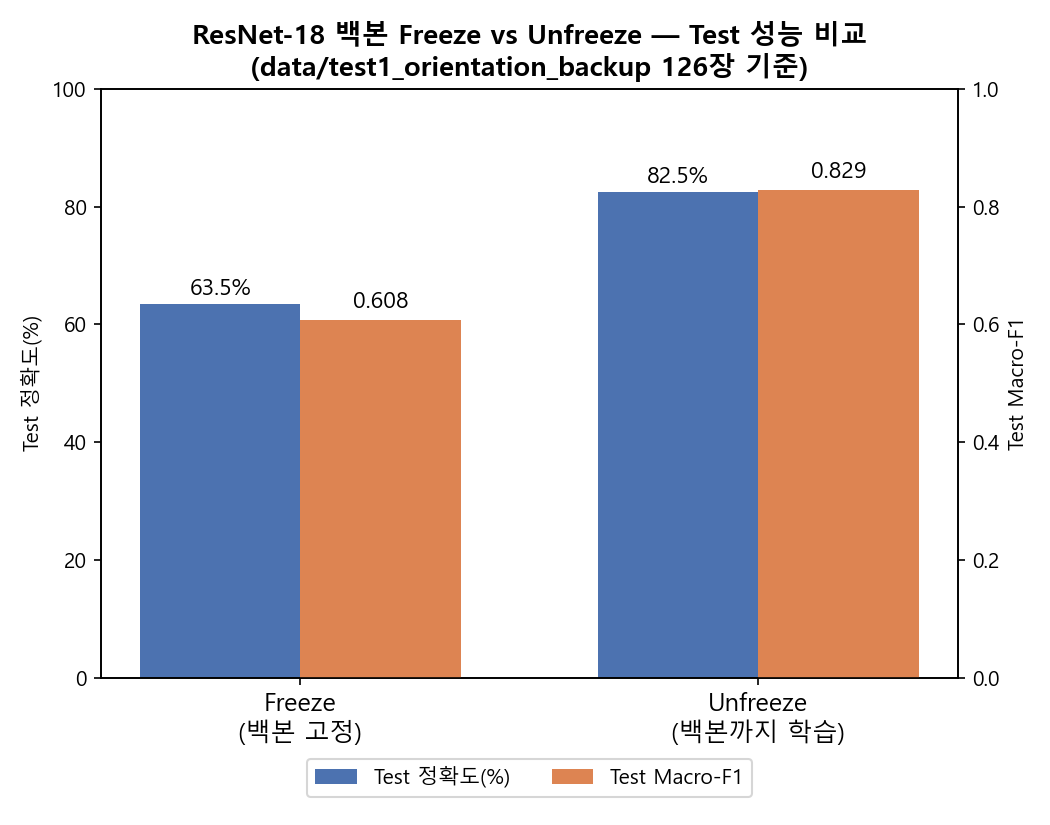
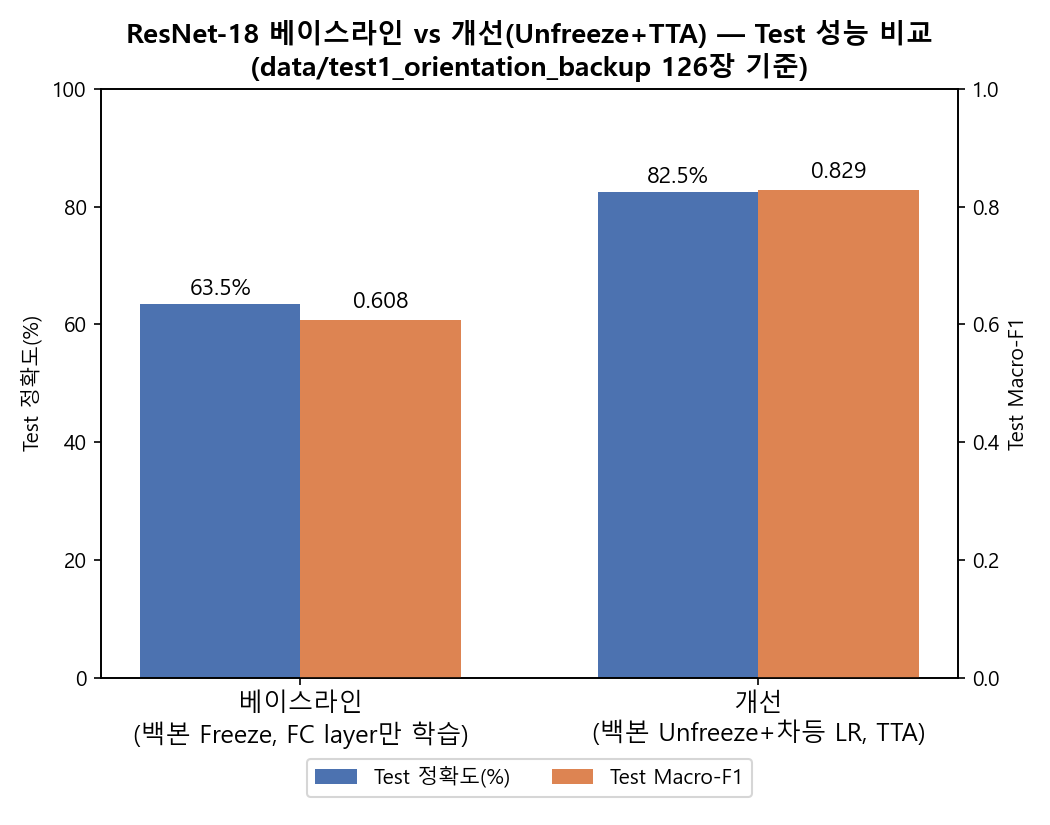
docs: ResNet-18 freeze vs unfreeze 그래프를 베이스라인/개선(TTA 포함) 라벨로 명확화
수치는 그대로(63.5%/0.608 vs 82.5%/0.829), Unfreeze 쪽 수치에 TTA가
이미 포함돼 있음을 라벨/제목에 명시 — "베이스라인" vs "개선(Unfreeze+TTA)" 톤으로 통일.

Claude-Session: https://claude.ai/code/session_017RchT2YestydpNo3gmGA3i

diff --git a/src/deep_learning/dl2_resnet/make_freeze_vs_unfreeze_figure.py b/src/deep_learning/dl2_resnet/make_freeze_vs_unfreeze_figure.py
@@ -1,7 +1,8 @@
-"""ResNet-18 백본 freeze vs unfreeze의 Test 정확도/Macro-F1 비교 막대그래프를 만든다.
+"""ResNet-18 베이스라인(freeze) vs 개선(unfreeze+TTA)의 Test 정확도/Macro-F1 비교 막대그래프를 만든다.
 
 이번 세션에서 실측한 값 — 둘 다 같은 data/test1_orientation_backup(126장)
-기준(freeze는 최초 실험 환경을 재현해서 재측정, unfreeze는 현재 공식 체크포인트).
+기준(베이스라인은 최초 실험 환경을 재현해서 재측정, 개선 쪽은 현재 공식 체크포인트
++ TTA 추론이 함께 적용된 수치).
 
 실행:
     python src/deep_learning/dl2_resnet/make_freeze_vs_unfreeze_figure.py
@@ -22,8 +23,8 @@ plt.rcParams["axes.unicode_minus"] = False
 
 # (라벨, Test 정확도, Macro-F1) — data/test1_orientation_backup(126장) 기준 실측치.
 DATA = [
-    ("Freeze\n(백본 고정)", 0.635, 0.608),
-    ("Unfreeze\n(백본까지 학습)", 0.825, 0.829),
+    ("베이스라인\n(백본 Freeze, FC layer만 학습)", 0.635, 0.608),
+    ("개선\n(백본 Unfreeze+차등 LR, TTA)", 0.825, 0.829),
 ]
 
 
@@ -49,7 +50,7 @@ def main() -> None:
     ax2.set_ylabel("Test Macro-F1")
     ax.set_ylim(0, 100)
     ax2.set_ylim(0, 1.0)
-    ax.set_title("ResNet-18 백본 Freeze vs Unfreeze — Test 성능 비교\n(data/test1_orientation_backup 126장 기준)",
+    ax.set_title("ResNet-18 베이스라인 vs 개선(Unfreeze+TTA) — Test 성능 비교\n(data/test1_orientation_backup 126장 기준)",
                   fontsize=13, fontweight="bold")
 
     for b, v in zip(bars1, acc):
